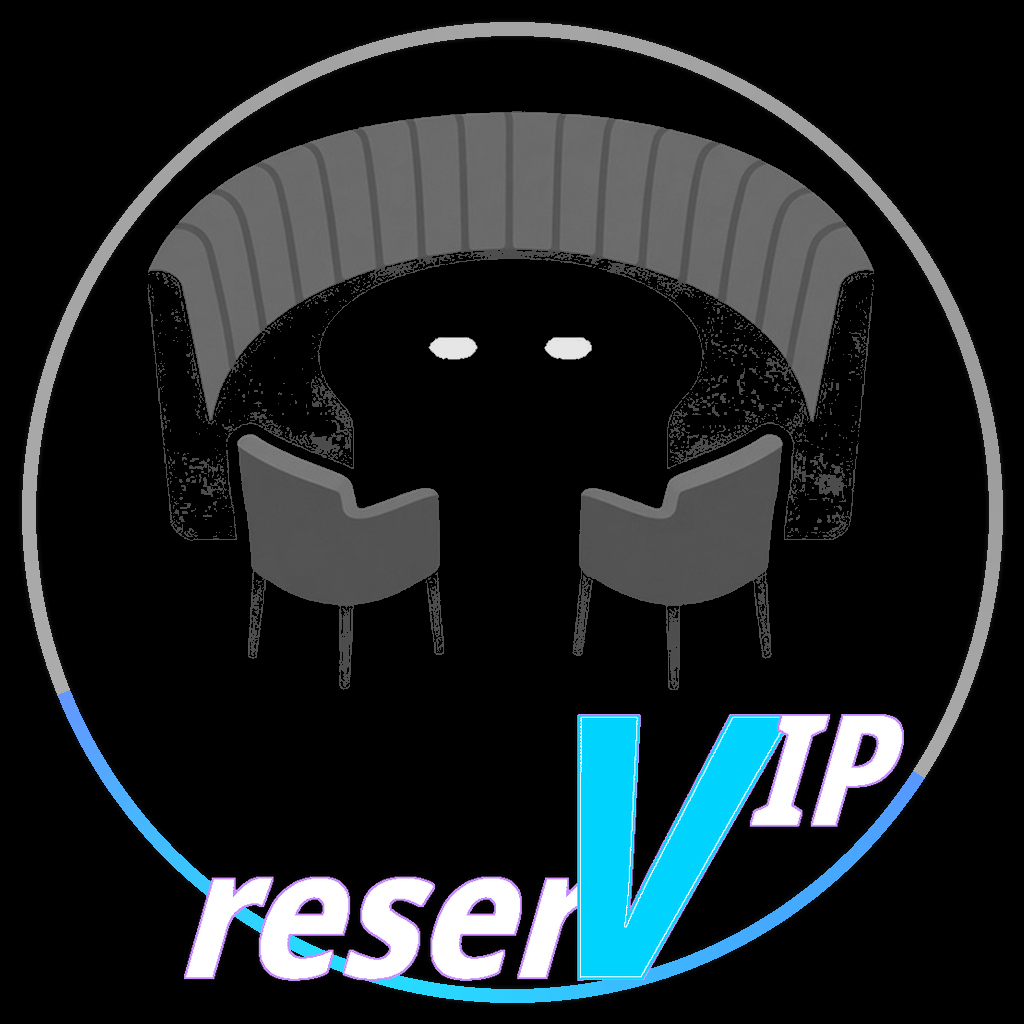
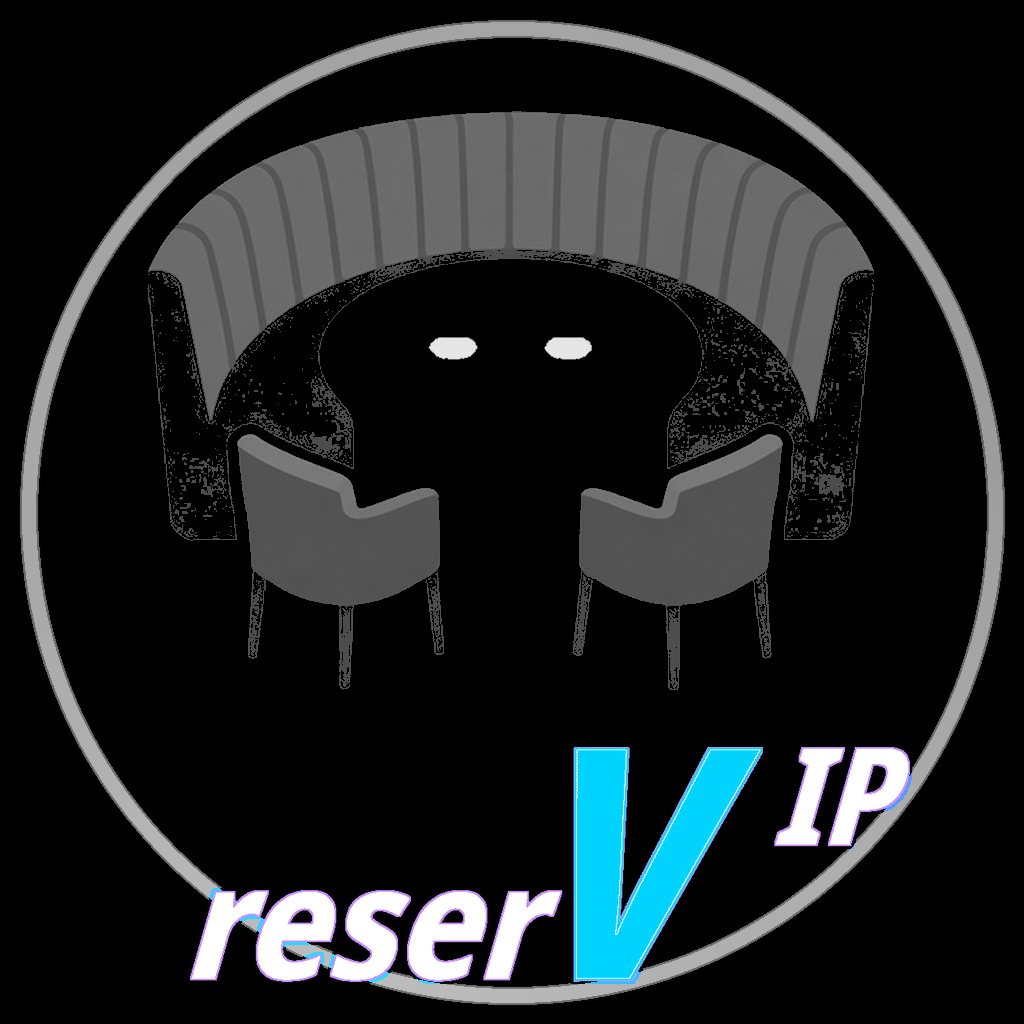
fix: VIP equalize reser↔V / V↔IP gaps; traditional silver ring
- Place reserVIP by fill-core SIDE_GAP so reser↔V matches V↔IP
- Traditional: restamp charcoal/silver ring; block nightlife cyan/purple leak
- ICON_V s3.2.04

diff --git a/index.html b/index.html
@@ -805,7 +805,7 @@
 <script src="https://www.gstatic.com/firebasejs/10.12.5/firebase-storage-compat.js"></script>
 <script src="https://www.gstatic.com/firebasejs/10.12.5/firebase-functions-compat.js"></script>
 <script src="./firebase-config.js?v=s3.2.00"></script>
-<script src="./floqr-chrome-scheme.js?v=s3.2.03"></script>
+<script src="./floqr-chrome-scheme.js?v=s3.2.04"></script>
 <script src="./floqr-people-directory.js?v=s3.2.00"></script>
 <script src="./floqr-app-check.js?v=s3.2.00"></script>
 <script src="./floqr-nav.js?v=s3.2.00"></script>

diff --git a/patron-portal.html b/patron-portal.html
@@ -828,7 +828,7 @@
 <script src="https://www.gstatic.com/firebasejs/10.12.5/firebase-storage-compat.js"></script>
 <script src="https://www.gstatic.com/firebasejs/10.12.5/firebase-functions-compat.js"></script>
 <script src="./firebase-config.js?v=s3.2.00"></script>
-<script src="./floqr-chrome-scheme.js?v=s3.2.03"></script>
+<script src="./floqr-chrome-scheme.js?v=s3.2.04"></script>
 <script src="./floqr-people-directory.js?v=s3.2.00"></script>
 <script src="./floqr-app-check.js?v=s3.2.00"></script>
 <script src="./floqr-nav.js?v=s3.2.00"></script>

diff --git a/vip.html b/vip.html
@@ -131,7 +131,7 @@
 <script src="./feature-gates.js?v=s3.2.00"></script>
 <script src="./floqr-i18n.js?v=s3.2.03"></script>
 <script src="./floqr-feature-services.js?v=s3.2.00"></script>
-<script src="./floqr-chrome-scheme.js?v=s3.2.03"></script>
+<script src="./floqr-chrome-scheme.js?v=s3.2.04"></script>
 <script src="./floqr-nav.js?v=s3.2.00"></script>
 <script src="./floqai-help-repository.js?v=s3.2.03"></script>
 <script src="./helper-popouts.js?v=s3.2.00"></script>

diff --git a/vip-terms.html b/vip-terms.html
@@ -93,7 +93,7 @@
 <script src="./feature-gates.js?v=s3.2.00"></script>
 <script src="./floqr-i18n.js?v=s3.2.03"></script>
 <script src="./floqr-feature-services.js?v=s3.2.00"></script>
-<script src="./floqr-chrome-scheme.js?v=s3.2.03"></script>
+<script src="./floqr-chrome-scheme.js?v=s3.2.04"></script>
 <script src="./floqr-nav.js?v=s3.2.00"></script>
 <script src="./floqai-help-repository.js?v=s3.2.03"></script>
 <script src="./helper-popouts.js?v=s3.2.00"></script>

diff --git a/chrome-scheme-stage.html b/chrome-scheme-stage.html
@@ -163,7 +163,7 @@
     Reply which traditional proposals to lock, then go-ahead to wire Search.
   </p>
 
-  <script src="./floqr-chrome-scheme.js?v=s3.2.03"></script>
+  <script src="./floqr-chrome-scheme.js?v=s3.2.04"></script>
   <script>
     FLOQRChromeScheme.bindToggle(document);
     // Keep legacy data-scheme in sync for page chrome CSS

diff --git a/floqr-chrome-scheme.js b/floqr-chrome-scheme.js
@@ -31,7 +31,7 @@
   });
 
   /** Asset cache-bust for chrome icon packs (not navigation). */
-  const ICON_V = "s3.2.03";
+  const ICON_V = "s3.2.04";
   const NIGHTLIFE_ICONS = {
     floqCast: "./images/chrome/floqcast-nightlife.jpg?v=" + ICON_V,
     vipReserv: "./images/chrome/vip-nightlife.jpg?v=" + ICON_V,

diff --git a/scripts/build-chrome-icons.py b/scripts/build-chrome-icons.py
@@ -680,16 +680,42 @@ def floqcast_wm():
     return U, O, B
 
 
+def _fill_right_edge(img: Image.Image, *, kind: str) -> int:
+    """Right edge of fill core (ignore thin border fringe for spacing)."""
+    a = np.array(img.convert("RGBA"))
+    r, g, b, al = (a[:, :, i].astype(int) for i in range(4))
+    if kind == "white":
+        core = (al > 40) & (r > 200) & (g > 200) & (b > 200)
+    else:
+        core = (al > 40) & (r < 100) & (g > 150) & (b > 180)
+    if not core.any():
+        core = al > 40
+    return int(np.where(core)[1].max())
+
+
+def _fill_left_edge(img: Image.Image, *, kind: str) -> int:
+    a = np.array(img.convert("RGBA"))
+    r, g, b, al = (a[:, :, i].astype(int) for i in range(4))
+    if kind == "white":
+        core = (al > 40) & (r > 200) & (g > 200) & (b > 200)
+    else:
+        core = (al > 40) & (r < 100) & (g > 150) & (b > 180)
+    if not core.any():
+        core = al > 40
+    return int(np.where(core)[1].min())
+
+
 def vip_wm():
     """reserVIP — IP top-aligned to V; reser lower; thin Tiffany/purple borders.
 
-    v29: V −7.5%; IP flush with upper part of V; thin line borders (no thick neon);
+    v29.1: equalize ink gap reser↔V and V↔IP (nudge reser left); thin borders;
     full wordmark OVER the ring.
     """
     V = thin_border_glyph(glyph("V", VIP_V, TIFFANY), kind="cyan")
-    ov_r = int(V.size[0] * 0.14)
-    ov_i = int(V.size[0] * 0.20)
+    # Equal fill-core gap on both sides of V (reser↔V == V↔IP)
+    SIDE_GAP = 18
     gap_pad = 8
+    left_slack = 20
 
     def build_reser(target_h: int):
         size = 160
@@ -720,11 +746,11 @@ def vip_wm():
             reser_body.size[0]
             + V.size[0]
             + IP.size[0]
-            - ov_r
-            - ov_i
+            + SIDE_GAP * 2
             + gap_pad * 2
+            + left_slack
         )
-        if need <= VIP_MAX_W:
+        if need <= VIP_MAX_W + 40:
             break
         reser_h_target = max(110, int(reser_h_target * 0.93))
         ip_h_target = max(120, int(ip_h_target * 0.93))
@@ -732,17 +758,25 @@ def vip_wm():
         print(f"  WARN VIP chord still wide after shrink loop need={need}")
 
     reser_h = reser_body.size[1]
-    # Canvas: V height dominates; IP top-aligned with V top
     H = max(V.size[1], reser_h) + gap_pad * 2
-    W = reser_body.size[0] + V.size[0] + IP.size[0] - ov_r - ov_i + gap_pad * 2
+    # Place by fill cores so thin borders do not collapse the visual gap
+    v_l = _fill_left_edge(V, kind="cyan")
+    v_r = _fill_right_edge(V, kind="cyan")
+    reser_r = _fill_right_edge(reser_body, kind="white")
+    ip_l = _fill_left_edge(IP, kind="white")
+    rx = gap_pad + left_slack
+    vx = rx + reser_r + SIDE_GAP - v_l
+    ix = vx + v_r + SIDE_GAP - ip_l
+    W = max(
+        ix + IP.size[0] + gap_pad,
+        vx + V.size[0] + gap_pad,
+        rx + reser_body.size[0] + gap_pad,
+    )
     under = Image.new("RGBA", (W, H), (0, 0, 0, 0))
     over = Image.new("RGBA", (W, H), (0, 0, 0, 0))
-    rx = gap_pad
-    ry = gap_pad + (H - gap_pad * 2 - reser_h)  # lower line — bottom-align with V
-    vx = rx + reser_body.size[0] - ov_r
     vy = gap_pad + (H - gap_pad * 2 - V.size[1])
-    ix = vx + V.size[0] - ov_i
-    iy = vy  # align IP to the upper part / top of V
+    iy = vy
+    ry = gap_pad + (H - gap_pad * 2 - reser_h)
     over.alpha_composite(reser_body, (rx, ry))
     over.alpha_composite(V, (vx, vy))
     over.alpha_composite(IP, (ix, iy))
@@ -755,7 +789,19 @@ def vip_wm():
     U = crop_keep(under)
     O = crop_keep(over)
     B = Image.alpha_composite(U, O)
-    # Fit chord so tips can kiss inside the ring (wide body overhangs)
+    ba = np.array(B)
+    ink = ba[:, :, 3] > 20
+    white = ink & (ba[:, :, 0] > 200)
+    tiffany = ink & (ba[:, :, 0] < 100) & (ba[:, :, 1] > 150) & (ba[:, :, 2] > 180)
+    if tiffany.any() and white.any():
+        vxs = np.where(tiffany)[1]
+        vl, vr = int(vxs.min()), int(vxs.max())
+        reser_w = white & (np.arange(ba.shape[1])[None, :] < vl)
+        ip_w = white & (np.arange(ba.shape[1])[None, :] > vr)
+        g_rv = (vl - int(np.where(reser_w)[1].max())) if reser_w.any() else -1
+        g_vi = (int(np.where(ip_w)[1].min()) - vr) if ip_w.any() else -1
+    else:
+        g_rv = g_vi = -1
     if B.size[0] > VIP_MAX_W:
         fit = VIP_MAX_W / float(B.size[0])
         nw = max(1, int(round(B.size[0] * fit)))
@@ -772,7 +818,8 @@ def vip_wm():
     purp = (wa[:, :, 3] > 20) & (wa[:, :, 0] > 140) & (wa[:, :, 2] > 180) & (wa[:, :, 1] < 180)
     print(
         f"  TYPE VIP reser size={size} IP size={ip_size} (top-align V) "
-        f"white_h={wh_h} V={VIP_V} (−7.5%) tiffany_h={vh} purple_line={int(purp.sum())} "
+        f"gap_reser_V={g_rv} gap_V_IP={g_vi} SIDE_GAP={SIDE_GAP} "
+        f"white_h={wh_h} V={VIP_V} tiffany_h={vh} purple_line={int(purp.sum())} "
         f"body={B.size} thin-border=tiffany+purple"
     )
     return U, O, B
@@ -985,16 +1032,32 @@ def traditional_from_nightlife(
         )
         > 0
     )
+    # Only copy nightlife type onto the verbiage footprint — never ring annulus
+    # (prevents tiffany/purple nightlife ring leaking into traditional silver stroke)
+    typeish = typeish & protect
     out[typeish] = na[typeish]
+    out[:, :, 3] = 255
+
+    # Re-stamp traditional silver ring on ring pixels not covered by type
+    trad_ring = np.array(Image.open(LAYERS / "ring-traditional.png").convert("RGBA"))
+    ring_px = trad_ring[:, :, 3] > 20
+    restamp = ring_px & ~protect
+    out[restamp] = trad_ring[restamp]
     out[:, :, 3] = 255
 
     tip_out = typeish & (dist > R)
     tip_ink = tip_out & (
         (out[:, :, 0] > 40) | (out[:, :, 1] > 40) | (out[:, :, 2] > 40)
     )
+    # QA: ring annulus should stay near-mono (no neon cyan/magenta leftovers)
+    rr, rg, rb = out[:, :, 0].astype(int), out[:, :, 1].astype(int), out[:, :, 2].astype(int)
+    ring_sat = ring_px & ~protect & (
+        (np.maximum(np.maximum(rr, rg), rb) - np.minimum(np.minimum(rr, rg), rb)) > 40
+    )
     print(
         f"  traditional charcoal: line={int(line.sum())} soft→black={int(soft_fill.sum())} "
-        f"tips_outside_ring={int(tip_ink.sum())} ring_px={int(ring.sum())}"
+        f"tips_outside_ring={int(tip_ink.sum())} ring_px={int(ring.sum())} "
+        f"ring_restamp={int(restamp.sum())} ring_neon_left={int(ring_sat.sum())}"
     )
     return Image.fromarray(out, "RGBA")
 
